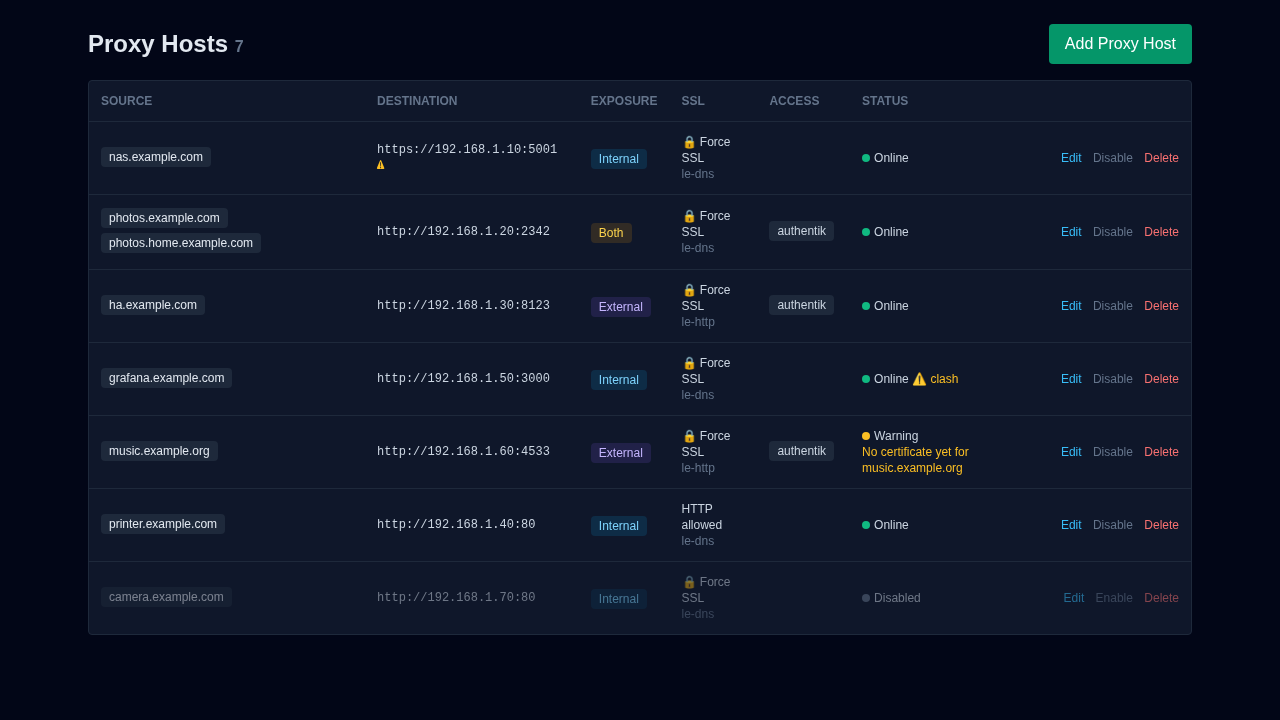
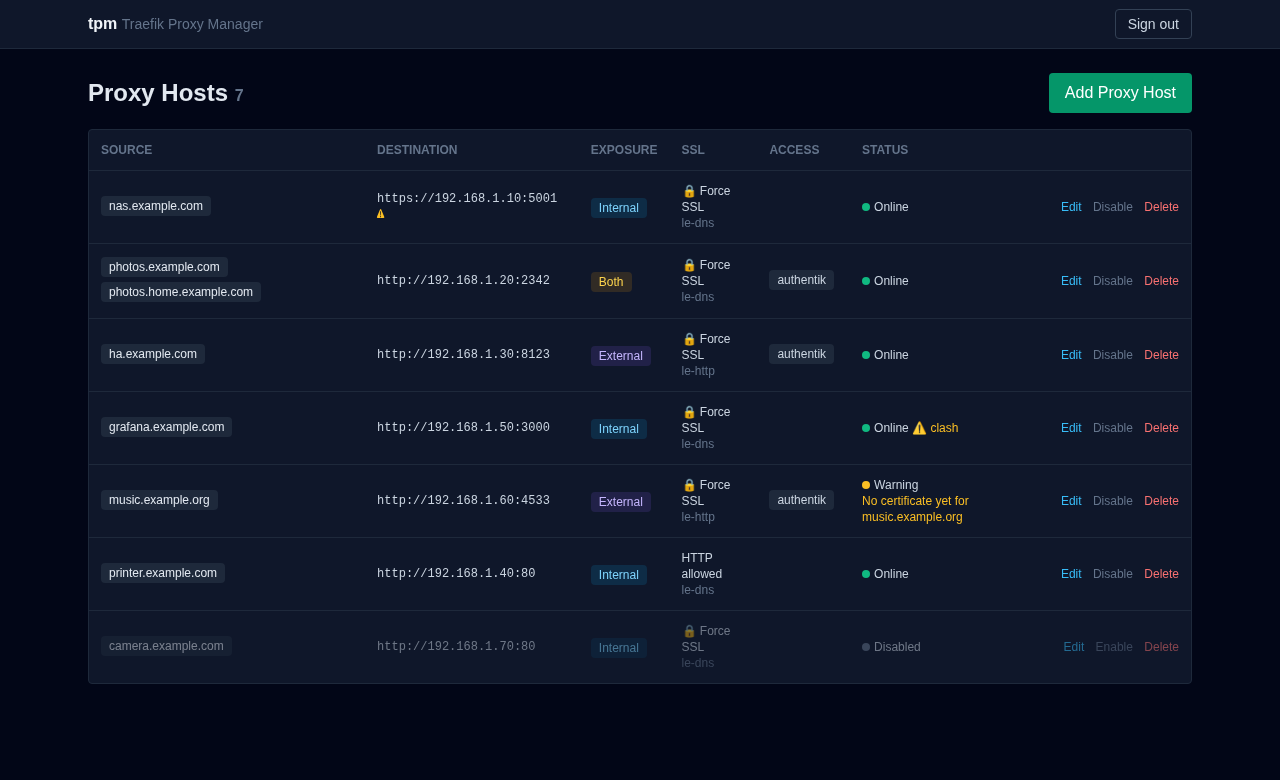
Updating the README and include new UI grabs from the newest version

diff --git a/README.md b/README.md
@@ -21,6 +21,10 @@ container. So we tried the very complete and full-featured [Traefik Manager](htt
 GUI to keep everything in one proxy system and get the otel stuff for free. However, after presenting the UI for approvals
 it was deemed too complicated and confusing to the people already using the existing system.
 
+This project was the compromise. It hooks into traefik and does the things we needed it to do. This implementation is very
+opinionated, we have a specific internal/external hosts layout that we wanted to maintain. It is optional to include both
+types of ingress for those with simpler needs, but not actively tested. The timeout options were added when some of our
+local ai responses went long compared to the defaults. Waiting for a local image or video generation can take a while.
 
 ## Visuals
 
@@ -292,6 +296,16 @@ docker compose start tpm
 
 A restored file may carry a lower `nextId` than the Proxy Hosts it holds. That's fine: tpm never hands out an ID
 already in the file.
+
+## Contributing
+
+I can't guarantee anything other than major bugs will be merged. We want the UI to stay simple and manageable
+for the people here who use it.
+
+## Donations?
+
+Unlikely, but with a company called ~~Wishful Thinking~~ Aspirational Cognition, we may as well try:
+Send some ETH to 0x8B69c14417F84366F302bE7E00Df4F67FD5742Ed
 
 ## License
 
